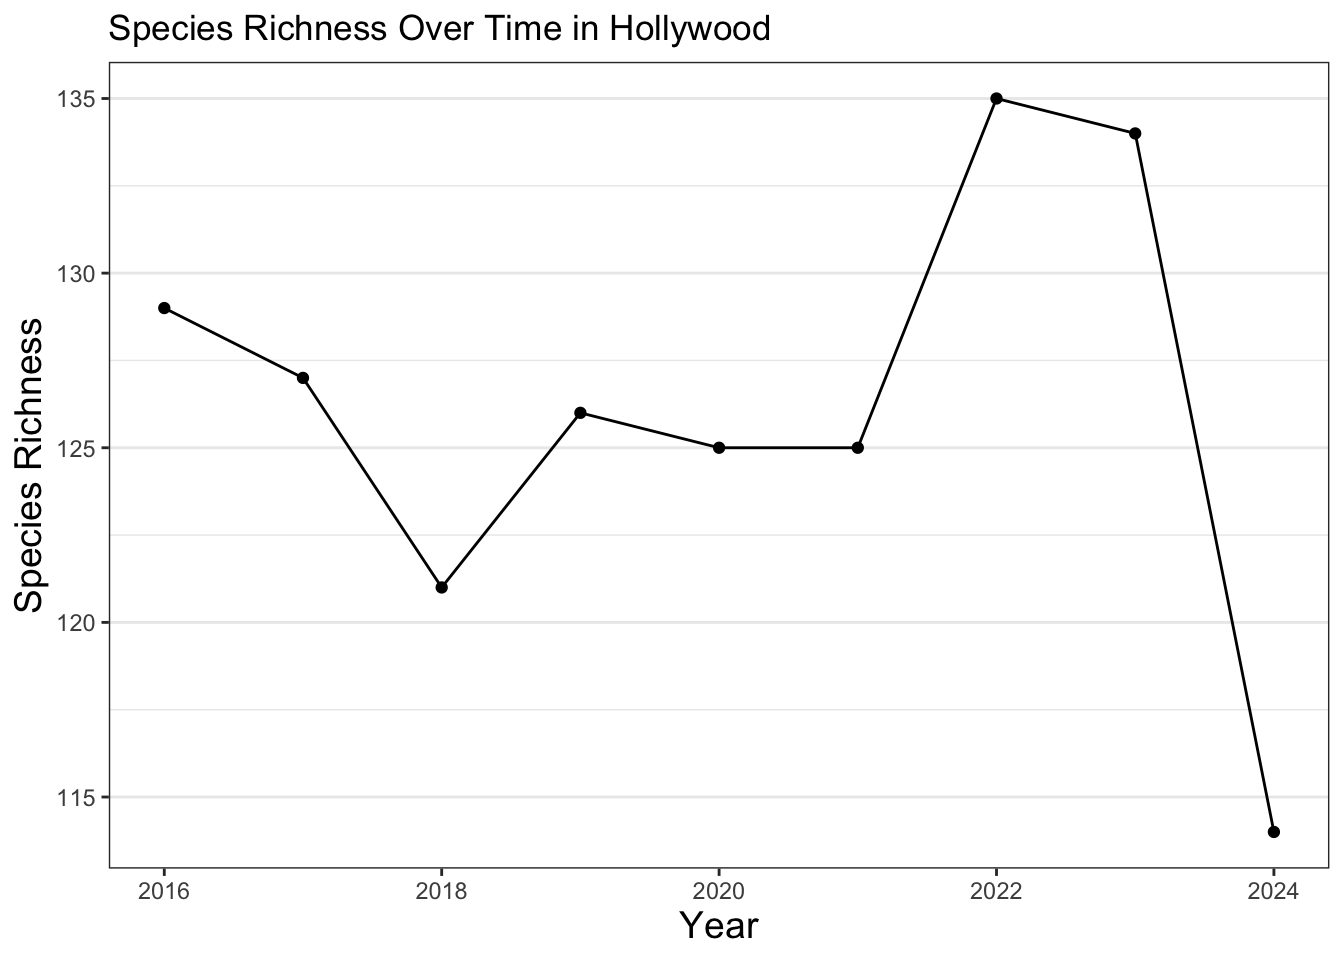
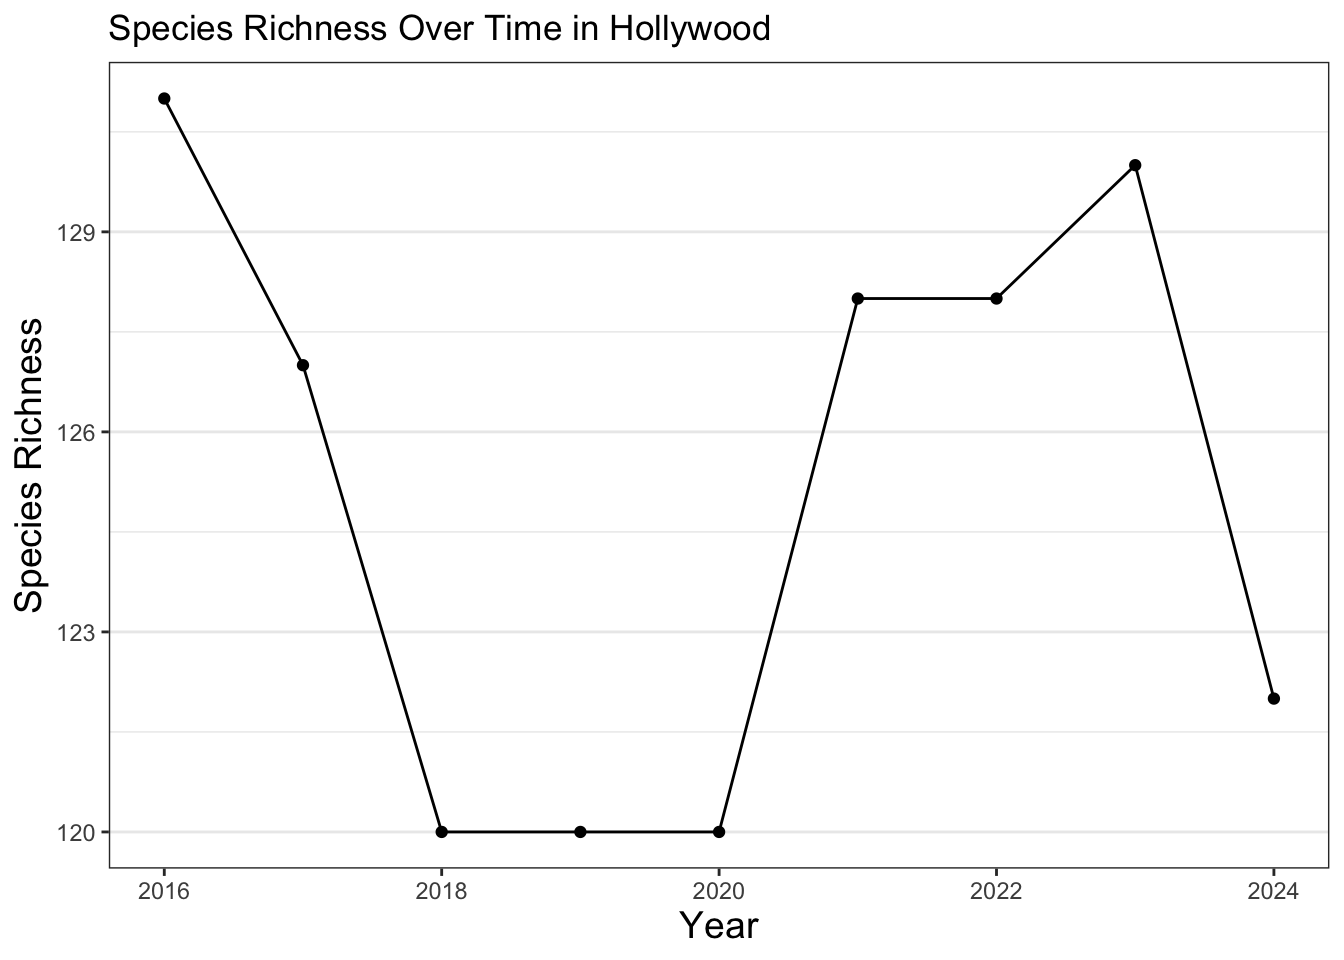
update docs

diff --git a/docs/lessons/coding-after-workshop.html b/docs/lessons/coding-after-workshop.html
@@ -240,17 +240,9 @@ ul.task-list li input[type="checkbox"] {
     <h2 id="toc-title">On this page</h2>
    
   <ul>
-  <li><a href="#save-your-scripts-to-your-repository" id="toc-save-your-scripts-to-your-repository" class="nav-link active" data-scroll-target="#save-your-scripts-to-your-repository">1. Save your scripts to your repository</a></li>
-  <li><a href="#run-your-scripts" id="toc-run-your-scripts" class="nav-link" data-scroll-target="#run-your-scripts">2. Run your scripts</a>
-  <ul class="collapse">
-  <li><a href="#run-r-code-using-github-codespace" id="toc-run-r-code-using-github-codespace" class="nav-link" data-scroll-target="#run-r-code-using-github-codespace">Run R code using Github Codespace</a></li>
-  <li><a href="#run-r-code-on-your-computer" id="toc-run-r-code-on-your-computer" class="nav-link" data-scroll-target="#run-r-code-on-your-computer">Run R code on your computer</a></li>
-  </ul></li>
-  <li><a href="#create-new-project" id="toc-create-new-project" class="nav-link" data-scroll-target="#create-new-project">3. Create new project</a>
-  <ul class="collapse">
-  <li><a href="#create-new-projects-on-github" id="toc-create-new-projects-on-github" class="nav-link" data-scroll-target="#create-new-projects-on-github">Create new projects on Github</a></li>
-  <li><a href="#create-new-projects-on-your-computer" id="toc-create-new-projects-on-your-computer" class="nav-link" data-scroll-target="#create-new-projects-on-your-computer">Create new projects on your computer</a></li>
-  </ul></li>
+  <li><a href="#continue-workshop-projects" id="toc-continue-workshop-projects" class="nav-link active" data-scroll-target="#continue-workshop-projects">1. Continue workshop projects</a></li>
+  <li><a href="#create-new-projects-on-github" id="toc-create-new-projects-on-github" class="nav-link" data-scroll-target="#create-new-projects-on-github">2. Create new projects on Github</a></li>
+  <li><a href="#create-new-projects-on-your-computer" id="toc-create-new-projects-on-your-computer" class="nav-link" data-scroll-target="#create-new-projects-on-your-computer">3. Create new projects on your computer</a></li>
   </ul>
 </nav>
     </div>
@@ -276,36 +268,20 @@ ul.task-list li input[type="checkbox"] {
 </header>
 
 
-<p>For those who want to continue coding after the workshop, here are the steps you need to take. There are three things to take care.</p>
+<p>For those who want to continue coding after the workshop, here some options</p>
 <ol type="1">
-<li>Save your scripts to your repo.</li>
-<li>Run your scripts.</li>
-<li>Create new projects.</li>
+<li>Continue workshop projects.</li>
+<li>Create new projects on Github.</li>
+<li>Create new projects on your computer.</li>
 </ol>
-<section id="save-your-scripts-to-your-repository" class="level2">
-<h2 class="anchored" data-anchor-id="save-your-scripts-to-your-repository">1. Save your scripts to your repository</h2>
-<p>You need to save the files you created during the workshop to your Github repository. Codespaces are temporary. Github will delete unused Codespace after some time. Github repositories are long lasting. The files in your repo will remain on Github until you delete your repo or delete your account.</p>
-<p>Start Codespace. In Visual Studio Code, click “bash”. Click “TERMINAL”.</p>
-<p><img src="images/setup/bash.png" class="img-fluid"></p>
-<p>To save the changed files to you repository, type “bash scripts/save_files.sh” after the $, and hit return/enter.</p>
-<p><img src="images/setup/bash_save_files.png" class="img-fluid"></p>
-</section>
-<section id="run-your-scripts" class="level2">
-<h2 class="anchored" data-anchor-id="run-your-scripts">2. Run your scripts</h2>
-<p>There are several ways to run your scripts.</p>
-<ol type="1">
-<li>Run R code using Github Codespace. You can run your code for free for 60 hours a month.</li>
-<li>Run R code on your computer. You need to install R, RStudio, and R packages on your computer. You can run your code for free for unlimted number of hours.</li>
-</ol>
-<section id="run-r-code-using-github-codespace" class="level3">
-<h3 class="anchored" data-anchor-id="run-r-code-using-github-codespace">Run R code using Github Codespace</h3>
-<p>Currently, every free Github account has access to 120 core hours per month to run Codespaces. When you start a Codespace, by default it uses 2 cores. This means you can run a Codespace for 60 hours per month (120 core hours / 2 cores = 60 hours). For more information, visit <a href="https://docs.github.com/en/billing/managing-billing-for-your-products/managing-billing-for-github-codespaces/about-billing-for-github-codespaces">Codespaces Billing</a>.</p>
+<section id="continue-workshop-projects" class="level2">
+<h2 class="anchored" data-anchor-id="continue-workshop-projects">1. Continue workshop projects</h2>
 <section id="copy-repository-to-your-github-account" class="level4">
 <h4 class="anchored" data-anchor-id="copy-repository-to-your-github-account">Copy repository to your Github account</h4>
 <p>First step is to copy your repository from the workshop into your Github account. Go to your repository page on Github. There is a “Fork” button near the top. Creating a fork will copy the repo, and create a new repo in your Github account. Click the “Fork” button.</p>
 <p><img src="images/coding-after-workshop/fork-button.png" class="img-fluid"></p>
 <p>Click “Create a new fork” in the popup.</p>
-<p><img src="images/coding-after-workshop/click-fork-bitton.png" class="img-fluid"></p>
+<p><img src="images/coding-after-workshop/click-fork-bitton.png" class="img-fluid" width="500"></p>
 <p>On the “Create a new fork” page, fill in the repository name, optionally add a description, and click “Create fork” button.</p>
 <p><img src="images/coding-after-workshop/create-fork.png" class="img-fluid"></p>
 <p>A copy of the repo will be added to your Github account.</p>
@@ -314,6 +290,7 @@ ul.task-list li input[type="checkbox"] {
 <section id="start-a-codespace" class="level4">
 <h4 class="anchored" data-anchor-id="start-a-codespace">Start a Codespace</h4>
 <p>Next step is to run Codespace on your repo in your Github account.</p>
+<p>Currently, every free Github account has access to 120 core hours per month to run Codespaces. When you start a Codespace, by default it uses 2 cores. This means you can run a Codespace for 60 hours per month (120 core hours / 2 cores = 60 hours). For more information, visit <a href="https://docs.github.com/en/billing/managing-billing-for-your-products/managing-billing-for-github-codespaces/about-billing-for-github-codespaces">Codespaces Billing</a>.</p>
 <ol type="1">
 <li>Click the green “Code” button near the top of the page.</li>
 </ol>
@@ -321,60 +298,26 @@ ul.task-list li input[type="checkbox"] {
 <ol start="2" type="1">
 <li><p>Click “Codespaces” tab.</p></li>
 <li><p>a. If there are no Codespaces for the repo, click the green “Create codespace on main” button. The browser window loads the Codespace.</p>
-<p><img src="images/coding-after-workshop/create-codespace-main.png" class="img-fluid"></p>
-<p>b. If a Codespace exists for the repo, click the three dots in the “On current branch” section.</p></li>
+<p><img src="images/coding-after-workshop/create-codespace-main.png" class="img-fluid" width="500"></p>
+<p>b. If a Codespace exists for the repo, you should see the randomly-assigned name for your previously-created Codespace. Click on the Codespace.</p>
+<p><img src="images/setup/restart-codespace.png" class="img-fluid" width="500"></p></li>
 </ol>
-<p><img src="images/coding-after-workshop/existing-codespace.png" class="img-fluid"></p>
-<p>Click “Open in Browser” in the popup window. This will restart an existing Codespace in a browser tab.</p>
-<p><img src="images/coding-after-workshop/open-existing-codespace.png" class="img-fluid"></p>
-</section>
-<section id="stop-rstudio-and-codespace" class="level4">
-<h4 class="anchored" data-anchor-id="stop-rstudio-and-codespace">Stop RStudio and Codespace</h4>
-<p>After you finish your work for the day, you need to stop RStudio, push your code changes to your repository and, stop Codespace. If you don’t stop Codespace, it will continue to run and use up your free 60 hours a month.</p>
-<p>To stop R, click the orange circle in the upper right of RStudio.</p>
-<p><img src="images/setup/stop_R.png" class="img-fluid"></p>
-<p>You’ll see a message “R Session Ended”. Close the browser tab for RStudio.</p>
-<p><img src="images/setup/r_session_ended.png" class="img-fluid"></p>
-<p>Go to the Visual Studio Code browser tab. Click “bash”. Click “TERMINAL”.</p>
-<p><img src="images/setup/bash.png" class="img-fluid"></p>
-<p>To save the changed files to your repository, type “bash scripts/save_files.sh” after the $, and hit return/enter.</p>
-<p><img src="images/setup/bash_save_files.png" class="img-fluid"></p>
-<p>To stop Codespace, click the blue area in the lower left corner of Visual Studio Code.</p>
-<p><img src="images/setup/stop_codespace_button.png" class="img-fluid"></p>
-<p>A popup window will appear. Click “Stop Current Codespace”.</p>
-<p><img src="images/setup/stop_codespace.png" class="img-fluid"></p>
-<p>After a little while, you will see a “Codespace is stopped” message. You can now close the browser tab.</p>
-<p><img src="images/codespace-stop/Codespace-stopped.png" class="img-fluid" width="425"></p>
 </section>
 </section>
-<section id="run-r-code-on-your-computer" class="level3">
-<h3 class="anchored" data-anchor-id="run-r-code-on-your-computer">Run R code on your computer</h3>
+<section id="create-new-projects-on-github" class="level2">
+<h2 class="anchored" data-anchor-id="create-new-projects-on-github">2. Create new projects on Github</h2>
+<p>I created a template you can use to create new projects that runs R and Rstudio on Github Codespace. <a href="https://github.com/wykhuh/r-rstudio-codespace">R, RStudio, Codespace template</a>. You need to add your own R scripts and data.</p>
+</section>
+<section id="create-new-projects-on-your-computer" class="level2">
+<h2 class="anchored" data-anchor-id="create-new-projects-on-your-computer">3. Create new projects on your computer</h2>
 <p>If you want to run R code on your computer, you need to install RStudio, R, and R packages on your computer.</p>
 <ol type="1">
 <li>Complete the steps for <a href="../lessons/setup-local.html#install-r-and-rstudio">Setup - local page &gt; “Install R and RStudio”</a></li>
 <li>Complete steps for <a href="../lessons/setup-local.html#install-packages">Setup - local page &gt; “Install R packages”</a></li>
-<li>Download your repository to your computer.</li>
+<li>Follow the instructions on <a href="../lessons/setup-local.html#organizing-your-project-folder">Setup - local page &gt; Organizing your project folder</a> to set up new projects.</li>
 </ol>
-<p>Go to <a href="https://github.com/orgs/data-explorers-feb-2025/repositories">data-explorers-feb-2025</a> account page, and you should see your repository. Click on your repository. The repository page will have a green “Code” button.</p>
-<p><img src="images/coding-after-workshop/code-button.png" class="img-fluid"></p>
-<p>When you click on “Code”, click the “Local” tab. Click on “Download ZIP”. A zip file for your repository will be saved to your computer.</p>
-<p><img src="images/coding-after-workshop/download-zip.png" class="img-fluid"></p>
-<p>Unzip the file. Click on <code>workshop.Rproj</code> file to start RStudio on your machine. Now you can continue editing and running your project code.</p>
-</section>
-</section>
-<section id="create-new-project" class="level2">
-<h2 class="anchored" data-anchor-id="create-new-project">3. Create new project</h2>
-<p>If you want to start a new project, you can create a new R project on Github or on your computer.</p>
-<section id="create-new-projects-on-github" class="level3">
-<h3 class="anchored" data-anchor-id="create-new-projects-on-github">Create new projects on Github</h3>
-<p>I created a template you can use to create new projects that runs R and Rstudio on Github Codespace. <a href="https://github.com/wykhuh/r-rstudio-codespace">R, RStudio, Codespace template</a>.</p>
-</section>
-<section id="create-new-projects-on-your-computer" class="level3">
-<h3 class="anchored" data-anchor-id="create-new-projects-on-your-computer">Create new projects on your computer</h3>
-<p>Once you have R and RStudio installed on your computer, you can also create new projects. Follow the instructions on <a href="../lessons/setup-local.html#organizing-your-project-folder">Setup - local page &gt; Organizing your project folder</a> to set up new projects. Follow the instructions on <a href="../lessons/setup-local.html#install-packages">Setup - local page &gt; “Install R packages”</a> to install R packages.</p>
 
 
-</section>
 </section>
 
 </main> <!-- /main -->

diff --git a/docs/lessons/setup-my-account.html b/docs/lessons/setup-my-account.html
@@ -271,7 +271,7 @@ ul.task-list li input[type="checkbox"] {
 </header>
 
 
-<p>You can use Github Codespace to run their code online without installing stuff on their computer.</p>
+<p>You can use Github Codespace to run the code online without installing stuff on your computer.</p>
 <section id="create-github-account" class="level2">
 <h2 class="anchored" data-anchor-id="create-github-account">Create Github account</h2>
 <p>If you don’t have a Github account, create an account.</p>
@@ -294,8 +294,8 @@ ul.task-list li input[type="checkbox"] {
 <li><p>Go to <a href="https://github.com/wykhuh/after_inaturalist_attendees">after_inaturalist_attendees</a> repository and click the “Use this template” green button, and select “Create an new repository”. This will copy the workshop code to your Github account.</p>
 <p><img src="images/setup-my-account/template.png" class="img-fluid"></p></li>
 <li><p>On the “Create a new repository” page, fill in the Repository name. Choose if you want the repo public or private. Then click “Create repository” green button.</p></li>
-<li><p>You will be redirected to the new repository. Next step is to run the code on Codespace. Click the “Code” button, and click “Create codespace on main” button.</p>
-<p><img src="images/coding-after-workshop/create-codespace-main.png" class="img-fluid"></p></li>
+<li><p>You will be redirected to the new repository. Click the “Code” green button, and click “Create codespace on main” green button.</p>
+<p><img src="images/coding-after-workshop/create-codespace-main.png" class="img-fluid" width="430"></p></li>
 <li><p>This is Visual Studio Code, the default code editor for GitHub Codespaces. We want to use RStudio as our code editor.</p>
 <p>You will see page with “Setting up remote connection: Building codespace…” message in the corner. The software for the workshop is being downloaded and installed. This will take about 5 minutes.</p>
 <p><img src="images/setup/building-codespace.png" class="img-fluid"></p></li>
@@ -307,7 +307,7 @@ ul.task-list li input[type="checkbox"] {
 <p><img src="images/setup/rstudio.png" class="img-fluid"></p></li>
 <li><p>The code for the workshop is in the “scripts” &gt; “lesson-scripts” folder.</p>
 <p><img src="images/setup-my-account/scripts-folder.png" class="img-fluid"></p></li>
-<li><p>The code starts with the <a href="../lessons/working-with-data.html">Working with data</a> lesson. Select a line of code, and run the code using <kbd>Cmd+Return</kbd> (Mac) or <kbd>Ctrl+Enter</kbd> (Windows).</p></li>
+<li><p>You should read the lessons in the order they are shown in the side menu. The R lesson script files starts with the <a href="../lessons/working-with-data.html">Working with data</a> lesson. Select a line of code, and run the code using <kbd>Cmd+Return</kbd> (Mac) or <kbd>Ctrl+Enter</kbd> (Windows).</p></li>
 </ol>
 </section>
 <section id="stop-codespace" class="level2">

diff --git a/docs/lessons/cleaning-data.html b/docs/lessons/cleaning-data.html
@@ -341,7 +341,7 @@ extracting from zip file</code></pre>
 <li>information about observations with threatened, native, and introduced species had to be downloaded separately</li>
 </ul>
 <p>In order to simplify things for the workshop attendees, we fixed the various issues and created a cleaned up CSV.</p>
-<p>These are the steps we took to produced the cleaned up file. The raw file is at ‘/var/folders/zw/0kb57jnn5nv9k3pgxsz86n7h0000gq/T//RtmpZd2pFT/file15cdf32bffe12’, the cleaned file is at ‘/Users/wyk/Development/science/city_nature_challenge/NHMLA_workshop/after_inaturalist_lesson/data/cleaned/cnc-los-angeles-observations.csv’</p>
+<p>These are the steps we took to produced the cleaned up file. The raw file is at ‘/var/folders/zw/0kb57jnn5nv9k3pgxsz86n7h0000gq/T//RtmpmVdIKa/file16bfa880c72’, the cleaned file is at ‘/Users/wyk/Development/science/city_nature_challenge/NHMLA_workshop/after_inaturalist_lesson/data/cleaned/cnc-los-angeles-observations.csv’</p>
 <div class="cell">
 <div class="sourceCode cell-code" id="cb5"><pre class="sourceCode r code-with-copy"><code class="sourceCode r"><span id="cb5-1"><a href="#cb5-1" aria-hidden="true" tabindex="-1"></a>tmp <span class="ot">&lt;-</span> <span class="fu">tempfile</span>()</span>
 <span id="cb5-2"><a href="#cb5-2" aria-hidden="true" tabindex="-1"></a>zip_path <span class="ot">&lt;-</span> <span class="fu">here</span>(<span class="st">'data/raw/observations-513664.zip'</span>)</span>

diff --git a/docs/lessons/normalizing-inat.html b/docs/lessons/normalizing-inat.html
@@ -431,14 +431,14 @@ are planar</code></pre>
 <div class="cell-output cell-output-stdout">
 <pre><code># A tibble: 6 × 2
 # Groups:   year [1]
-   year scientific_name    
-  &lt;dbl&gt; &lt;chr&gt;              
-1  2016 Hirschfeldia incana
-2  2016 Euphorbia peplus   
-3  2016 Quercus agrifolia  
-4  2016 Foeniculum vulgare 
-5  2016 Prunus ilicifolia  
-6  2016 Libellula saturata </code></pre>
+   year scientific_name        
+  &lt;dbl&gt; &lt;chr&gt;                  
+1  2016 Heteromeles arbutifolia
+2  2016 Heteromeles arbutifolia
+3  2016 Encelia californica    
+4  2016 Solanum douglasii      
+5  2016 Trifolium repens       
+6  2016 Eleodes osculans       </code></pre>
 </div>
 </div>
 <p>We can use table to confirm we get <code>lowest_year</code> number of observations per year.</p>
@@ -465,15 +465,15 @@ are planar</code></pre>
 # Groups:   year [9]
    year richness
   &lt;dbl&gt;    &lt;int&gt;
-1  2016      129
+1  2016      131
 2  2017      127
-3  2018      121
-4  2019      126
-5  2020      125
-6  2021      125
-7  2022      135
-8  2023      134
-9  2024      114</code></pre>
+3  2018      120
+4  2019      120
+5  2020      120
+6  2021      128
+7  2022      128
+8  2023      130
+9  2024      122</code></pre>
 </div>
 </div>
 <p>Next, we can create a chart and visualize the results. Here, we use commands for how the plot looks similar to other plots we’ve created previously.</p>

diff --git a/docs/lessons/setup.html b/docs/lessons/setup.html
@@ -320,7 +320,7 @@ ul.task-list li input[type="checkbox"] {
 <li><p>Click on the invitation link for After iNaturalist classroom that we emailed to you.</p></li>
 <li><p>You will see a “Accept the assignment” page. Click “Accept this assignment” button.</p></li>
 </ol>
-<p>This will create a repository in GitHub with code and data for the workshop. The repository will be created in <a href="`{r} classroom_repos`">data-explorers-feb-2025</a> Github account. You will save your work to this repository. Only you and the workshop organizers can access your repository.</p>
+<p>This will create a repository in GitHub with code and data for the workshop. The repository will be created in <a href="https://github.com/orgs/data-explorers-feb-2025/repositories">data-explorers-feb-2025</a> Github account. You will save your work to this repository. Only you and the workshop organizers can access your repository.</p>
 <p><img src="images/setup/accept-assignment.png" class="img-fluid"></p>
 <ol start="3" type="1">
 <li><p>You will see a “You’re ready to go!” page. You can open that link in another browser tab or window to view your repository.</p>

diff --git a/docs/lessons/restart-codespace-classroom.html b/docs/lessons/restart-codespace-classroom.html
@@ -263,7 +263,7 @@ ul.task-list li input[type="checkbox"] {
 
 
 <ol type="1">
-<li><p>Go to <a href="`{r} classroom_repos`">data-explorers-feb-2025</a> Github page, and you should see your repository. Click on your repository.</p></li>
+<li><p>Go to <a href="https://github.com/orgs/data-explorers-feb-2025/repositories">data-explorers-feb-2025</a> Github page, and you should see your repository. Click on your repository.</p></li>
 <li><p>Scroll to the bottom of the page, and click the “Open in GitHub Codespaces” button. This will restart the Codespace created in the “Setup Github Classroom and Codespaces” section.</p>
 <p><img src="images/setup/repo-open-codespace.png" class="img-fluid"></p></li>
 <li><p>This is Visual Studio Code, the default code editor for GitHub Codespaces. We want to use RStudio as our code editor.</p>

diff --git a/docs/lessons/additional-analysis.html b/docs/lessons/additional-analysis.html
@@ -754,7 +754,7 @@ $ geometry           &lt;POINT [°]&gt; POINT (-118.5365 34.38503), POINT (-118.
 <span id="cb55-6"><a href="#cb55-6" aria-hidden="true" tabindex="-1"></a><span class="fu">table</span>(my_inat<span class="sc">$</span>observed_on)</span></code><button title="Copy to Clipboard" class="code-copy-button"><i class="bi"></i></button></pre></div>
 <div class="cell-output cell-output-stdout">
 <pre><code>
-2017-04-18 2019-04-26 2019-04-27 2020-04-26 2024-04-28 
+2016-04-15 2019-04-26 2021-04-30 2021-05-01 2022-05-01 
          1          1          1          1          1 </code></pre>
 </div>
 </div>
